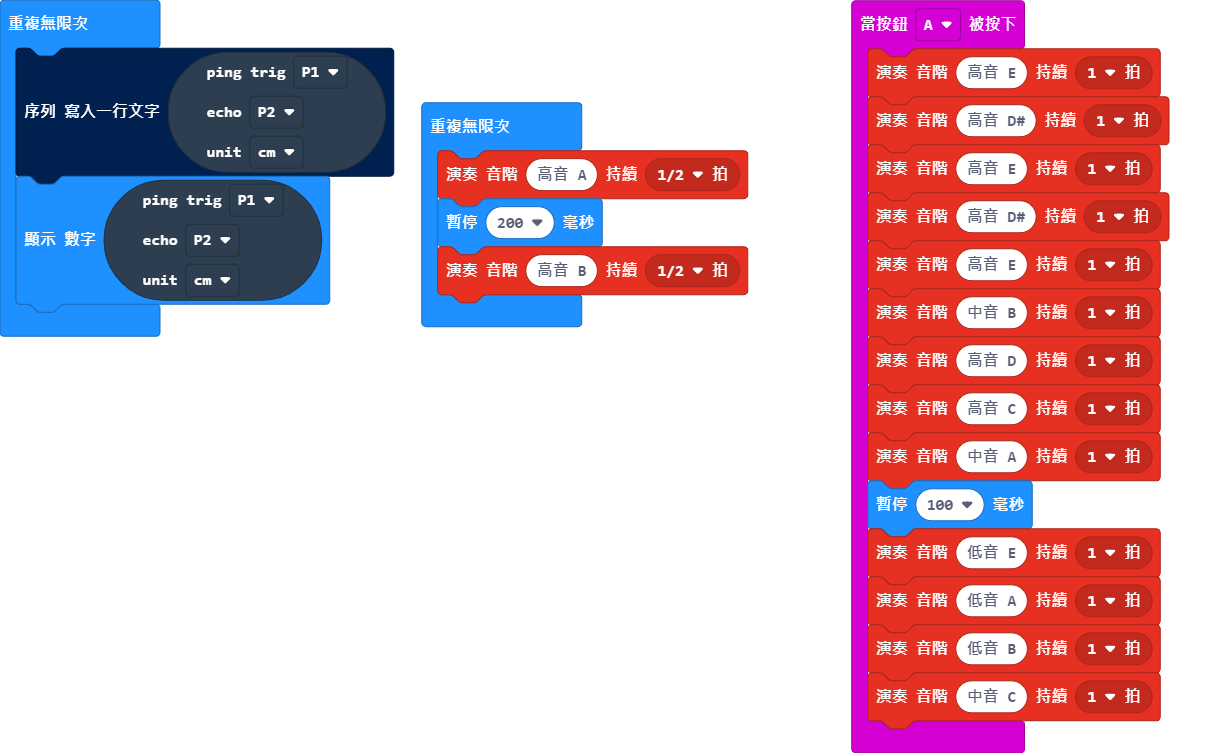
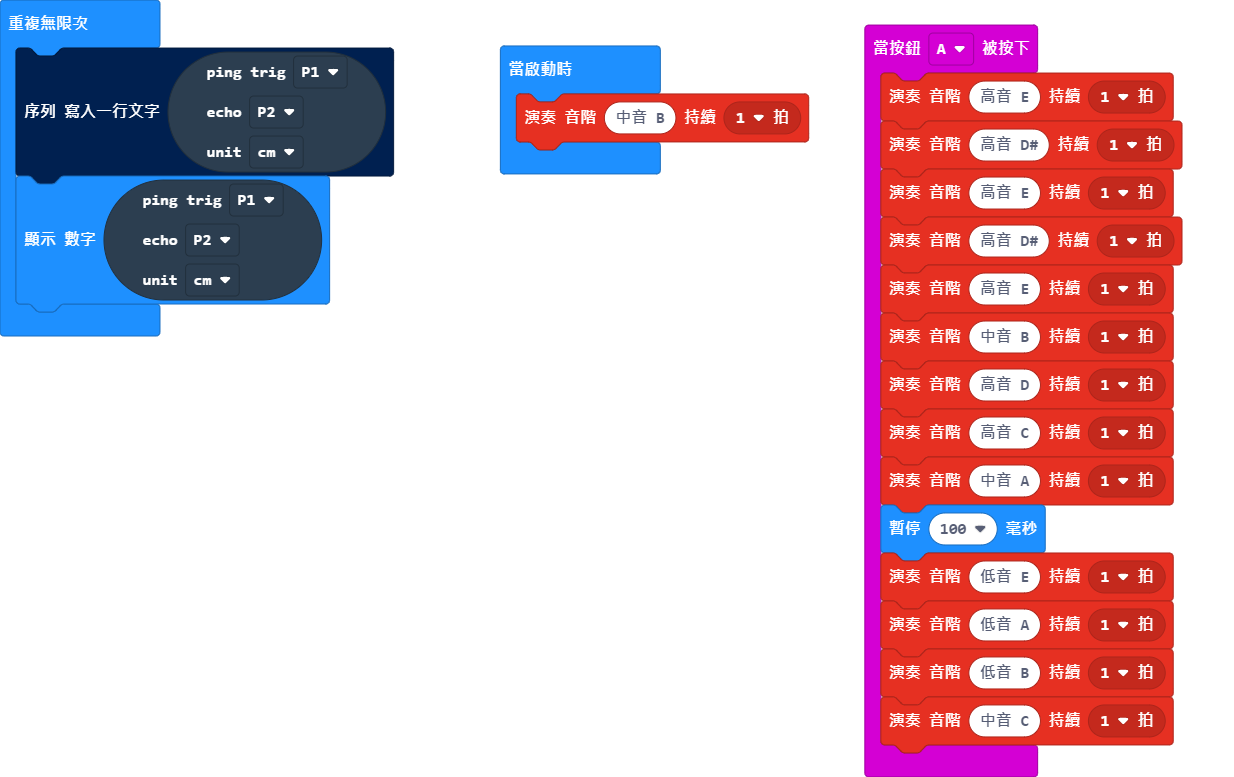
更新 main.blocks, main.ts

diff --git a/main.ts b/main.ts
@@ -14,6 +14,7 @@ input.onButtonPressed(Button.A, function () {
     music.playTone(247, music.beat(BeatFraction.Whole))
     music.playTone(262, music.beat(BeatFraction.Whole))
 })
+music.playTone(494, music.beat(BeatFraction.Whole))
 basic.forever(function () {
     serial.writeLine("" + (sonar.ping(
     DigitalPin.P1,
@@ -25,9 +26,4 @@ basic.forever(function () {
     DigitalPin.P2,
     PingUnit.Centimeters
     ))
-})
-basic.forever(function () {
-    music.playTone(880, music.beat(BeatFraction.Half))
-    basic.pause(200)
-    music.playTone(988, music.beat(BeatFraction.Half))
 })
